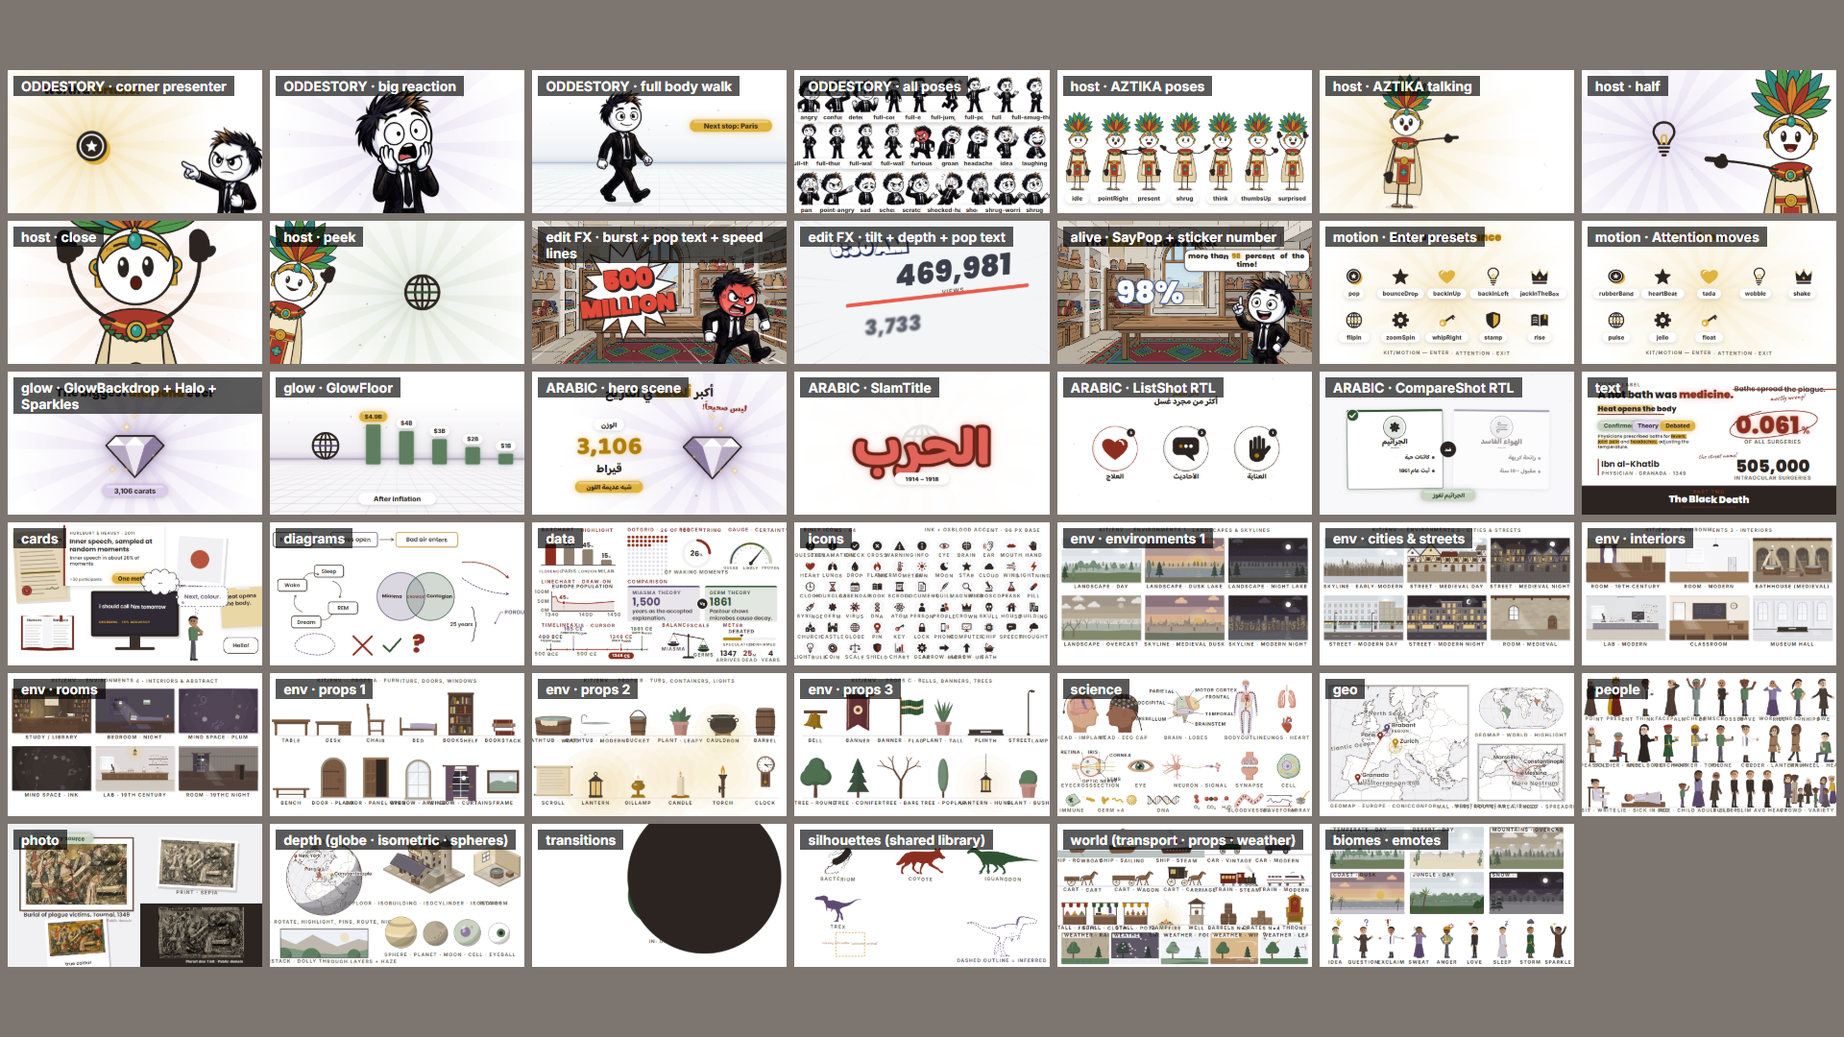
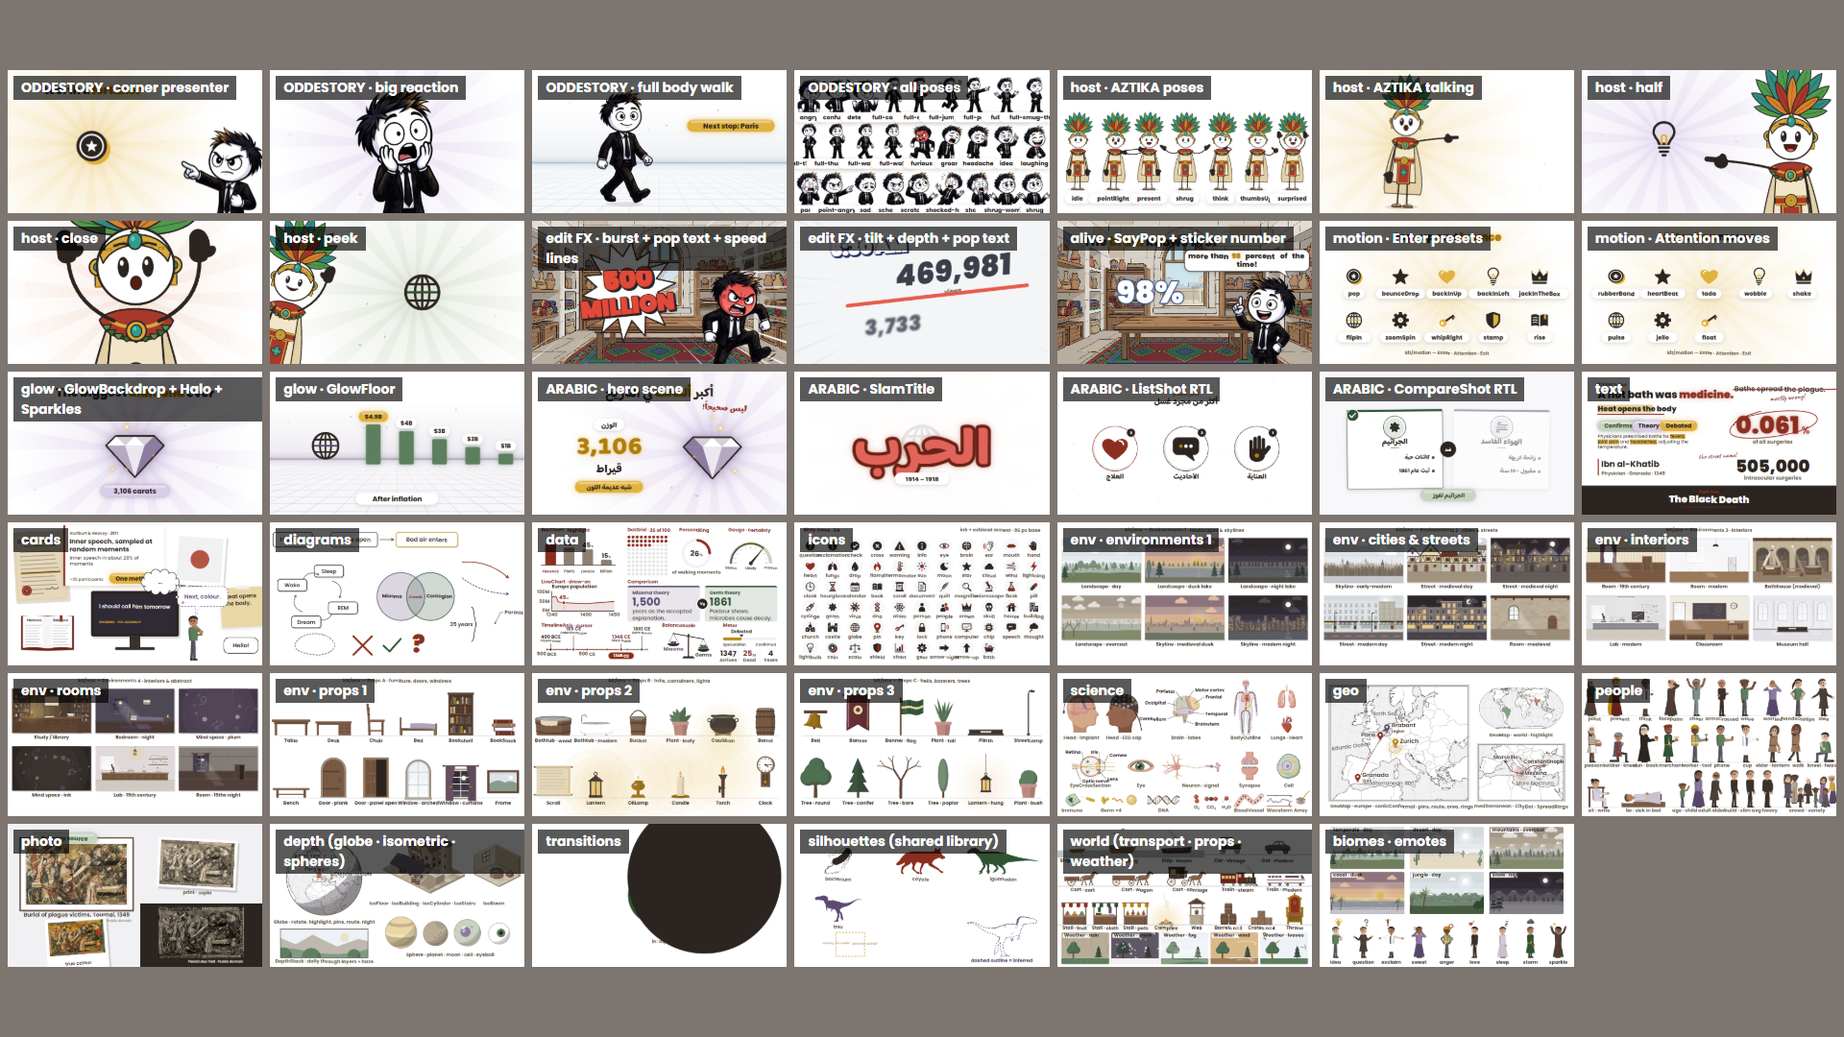
One clean text style: Poppins for labels/kickers too, normal case, normal letter spacing, no italics (old tracked caps + italics retired)

diff --git a/src/kit/templates.tsx b/src/kit/templates.tsx
@@ -548,7 +548,7 @@ export const QuoteShot: React.FC<
             <line x1={520} x2={520} y1={160} y2={990} stroke={C.oxTint} strokeWidth={3} opacity={0.8} />
             {docTitle && (
               <text x={960} y={236} textAnchor="middle" fontFamily={FONT_SANS} fontWeight={700} fontSize={30} letterSpacing={4} fill={C.inkMute}>
-                {docTitle.toUpperCase()}
+                {docTitle}
               </text>
             )}
             {[0, 1].map((i) => (
@@ -596,7 +596,7 @@ export const QuoteShot: React.FC<
             </text>
             {sub && (
               <text x={250} y={612} fontFamily={FONT_SANS} fontWeight={700} fontSize={30} letterSpacing={3} fill={P.mute} opacity={ramp(t, t0 + dur * 0.8, t0 + dur * 0.8 + 0.5)}>
-                {sub.toUpperCase()}
+                {sub}
               </text>
             )}
           </g>
@@ -687,7 +687,7 @@ export const EvidenceShot: React.FC<
           {mark.label && (
             <g opacity={ramp(t, mAt + 0.5, mAt + 0.9)}>
               <path d={`M${mx + (labelRight ? 1 : -1) * ((mark.rw * z * w) / 2 + 4)} ${my} L${labelRight ? fr + 30 : fl - 30} ${my}`} stroke={P.dark ? C.oxLight : C.oxblood} strokeWidth={4} pathLength={1} strokeDasharray="1 1" strokeDashoffset={1 - ease.inOut(ramp(t, mAt + 0.5, mAt + 1))} />
-              <Plate x={labelRight ? fr + 30 : fl - 30 - (textW(mark.label.toUpperCase(), 24, 'sansCaps') + 40)} y={my - 30} w={textW(mark.label.toUpperCase(), 24, 'sansCaps') + 40} h={60} p={ramp(t, mAt + 0.7, mAt + 1.1)} dark={P.dark} />
+              <Plate x={labelRight ? fr + 30 : fl - 30 - (textW(mark.label, 24, 'sansCaps') + 40)} y={my - 30} w={textW(mark.label, 24, 'sansCaps') + 40} h={60} p={ramp(t, mAt + 0.7, mAt + 1.1)} dark={P.dark} />
               <Kicker x={labelRight ? fr + 50 : fl - 50} y={my + 9} text={mark.label} anchor={labelRight ? 'start' : 'end'} p={ramp(t, mAt + 0.8, mAt + 1.2)} color={P.dark ? C.paperLight : C.oxblood} />
             </g>
           )}
@@ -696,7 +696,7 @@ export const EvidenceShot: React.FC<
       {tag && <Tag x={fl + 30} y={ft + 4} text={tag.text} kind={tag.kind ?? 'confirmed'} p={ramp(t, tag.at ?? t0 + 0.6, (tag.at ?? t0 + 0.6) + 0.6)} />}
       {nameTag && (
         <g>
-          <Plate x={fl - 50} y={fb - 96} w={Math.max(textW(nameTag.name, 46), nameTag.sub ? textW(nameTag.sub.toUpperCase(), 22, 'sansCaps') : 0) + 110} h={nameTag.sub ? 122 : 90} p={ramp(t, nameTag.at ?? t0 + 0.9, (nameTag.at ?? t0 + 0.9) + 0.5)} dark={P.dark} />
+          <Plate x={fl - 50} y={fb - 96} w={Math.max(textW(nameTag.name, 46), nameTag.sub ? textW(nameTag.sub, 22, 'sansCaps') : 0) + 110} h={nameTag.sub ? 122 : 90} p={ramp(t, nameTag.at ?? t0 + 0.9, (nameTag.at ?? t0 + 0.9) + 0.5)} dark={P.dark} />
           <NameTag x={fl - 20} y={fb - 40} name={nameTag.name} sub={nameTag.sub} p={ramp(t, (nameTag.at ?? t0 + 0.9) + 0.1, (nameTag.at ?? t0 + 0.9) + 0.7)} color={P.accent} dark={P.dark} />
         </g>
       )}
@@ -1045,7 +1045,7 @@ export const TimelineShot: React.FC<
             <rect x={xa} y={head ? 290 : 220} width={(xb - xa) * ease.inOut(ep)} height={ay - (head ? 290 : 220)} fill={mixHex(P.bg, c, P.dark ? 0.2 : 0.1)} />
             <rect x={xa + 2} y={ay + 96} width={Math.max(0, xb - xa - 4) * ease.inOut(ep)} height={56} rx={6} fill={mixHex(P.bg, c, P.dark ? 0.55 : 0.3)} />
             <text x={(xa + xb) / 2} y={ay + 135} textAnchor="middle" fontFamily={FONT_SANS} fontWeight={700} fontSize={32} letterSpacing={3} fill={P.fg} opacity={ramp(ep, 0.5, 1)}>
-              {er.label.toUpperCase()}
+              {er.label}
             </text>
           </g>
         );
@@ -1076,7 +1076,7 @@ export const TimelineShot: React.FC<
               <rect x={cx - lw / 2} y={ty - 128} width={lw} height={128} rx={10} fill={P.dark ? C.inkSoft : C.paperLight} />
               <rect x={cx - lw / 2} y={ty - 128} width={lw} height={8} rx={4} fill={c === P.fg ? P.accent : c} />
               <text x={cx} y={ty - 80} textAnchor="middle" fontFamily={FONT_SANS} fontWeight={800} fontSize={32} letterSpacing={3} fill={c === P.fg ? P.accent : c}>
-                {(e.yearLabel ?? fmt(e.year)).toUpperCase()}
+                {(e.yearLabel ?? fmt(e.year))}
               </text>
               <text x={cx} y={ty - 26} textAnchor="middle" fontFamily={FONT_SERIF} fontWeight={600} fontSize={44} fill={P.fg}>
                 {lbl}
@@ -1164,7 +1164,7 @@ export const MapShot: React.FC<
       {full ? (
         (kicker || title) && (
           <g>
-            <Plate x={130} y={110} w={Math.max(title ? textW(title, 56) : 0, kicker ? textW(kicker.toUpperCase(), 36, 'sansCaps') * 1.1 : 0) + 90} h={title ? 150 : 80} p={ramp(t, t0, t0 + 0.6)} dark={P.dark} />
+            <Plate x={130} y={110} w={Math.max(title ? textW(title, 56) : 0, kicker ? textW(kicker, 36, 'sansCaps') * 1.1 : 0) + 90} h={title ? 150 : 80} p={ramp(t, t0, t0 + 0.6)} dark={P.dark} />
             <Heading x={175} y={170} kicker={kicker} title={title} p={ramp(t, t0 + 0.1, t0 + 0.9)} P={P} size={56} />
           </g>
         )
@@ -1260,7 +1260,7 @@ export const PersonShot: React.FC<
     ) : (
       <Room era={era} t={t} seed={seed} night={night} windowX={sd === 'left' ? 1500 : 420} doorX={sd === 'left' ? 1150 : 760} door={false} />
     );
-  const tagW = Math.max(textW(name, 64), sub ? textW(sub.toUpperCase(), 36, 'sansCaps') * 1.17 : 0) + 110;
+  const tagW = Math.max(textW(name, 64), sub ? textW(sub, 36, 'sansCaps') * 1.17 : 0) + 110;
   const tagX = sd === 'left' ? Math.min(1060, 1824 - tagW) : Math.max(96, 860 - tagW);
   const tagY = env === 'study' ? 420 : 560;
   return (
@@ -1352,7 +1352,7 @@ export const ProcessShot: React.FC<
               </text>
               {s.sub && (
                 <text x={lp.x} y={ly + 42} textAnchor={anchor} fontFamily={FONT_SANS} fontWeight={700} fontSize={30} letterSpacing={3} fill={P.mute} opacity={ramp(p, 0.6, 1)}>
-                  {s.sub.toUpperCase()}
+                  {s.sub}
                 </text>
               )}
             </g>

diff --git a/src/kit/text.tsx b/src/kit/text.tsx
@@ -11,7 +11,7 @@ import {isAr} from './lang';
 /** Approximate rendered width (px) of a single line — good enough for layout boxes. */
 export const textW = (text: string, size: number, font: 'serif' | 'sans' | 'sansCaps' = 'serif', weight = 600) => {
   // Arabic (Baloo Bhaijaan 2, no tracking, no caps): one width for every role
-  const k = isAr() ? 0.5 : font === 'serif' ? 0.64 : font === 'sansCaps' ? 0.7 : 0.56; // serif = Poppins Black (wide)
+  const k = isAr() ? 0.5 : font === 'serif' ? 0.64 : font === 'sansCaps' ? 0.64 : 0.6; // all Poppins now (normal case, no tracking) // serif = Poppins Black (wide)
   return text.length * size * k * (weight >= 700 ? 1.04 : 1);
 };
 
@@ -176,7 +176,7 @@ export const Kicker: React.FC<{x: number; y: number; text: string; p?: number; s
   size = Math.max(size, TYPE.small); // phone-readable floor
   return (
     <text x={x} y={y + (1 - k) * 10} textAnchor={anchor} fontFamily={FONT_SANS} fontWeight={weight} fontSize={size} letterSpacing={size * 0.16} fill={color} opacity={k}>
-      {text.toUpperCase()}
+      {text}
     </text>
   );
 };
@@ -245,7 +245,7 @@ export const Tag: React.FC<{
   const onCol = kind === 'caution' ? C.ink : C.paperLight; // dark text on mustard for contrast
   const cap = look === 'caption';
   const size = Math.max(size0, cap ? TYPE.read / 1.12 : TYPE.label); // phone-readable floor (caption text renders at size × 1.12)
-  const label = cap ? text : text.toUpperCase();
+  const label = cap ? text : text;
   const fs = cap ? size * 1.12 : size;
   const w = cap ? size * 0.22 + size * 0.55 + textW(label, fs, 'serif', 600) * 1.06 + size * 0.75 : textW(label, size, 'sansCaps', 700) + size * (dot ? 2.3 : 1.6);
   const h = size * 1.9;
@@ -295,7 +295,7 @@ export const Stamp: React.FC<{x: number; y: number; text: string; p: number; col
   if (p <= 0) return null;
   cueSfx('stamp', `${text}@${Math.round(x)},${Math.round(y)}`, true, x);
   const s = 1.35 - 0.35 * ease.outBack(Math.min(1, p));
-  const label = text.toUpperCase();
+  const label = text;
   const w = textW(label, size, 'sansCaps', 800) + size * 1.2;
   const h = size * 1.7;
   return (
@@ -384,7 +384,7 @@ export const Stat: React.FC<{
       </text>
       {label && (
         <text x={x} y={y + size * 0.42} textAnchor={anchor} fontFamily={FONT_SANS} fontWeight={700} fontSize={Math.max(TYPE.label, size * 0.2)} letterSpacing={size * 0.02} fill={labelColor} opacity={ramp(p, 0.4, 1)}>
-          {label.toUpperCase()}
+          {label}
         </text>
       )}
     </g>
@@ -480,7 +480,7 @@ export const NameTag: React.FC<{x: number; y: number; name: string; sub?: string
   const k = ease.out(clamp01(p));
   const nameSize = 64;
   const subSize = TYPE.small;
-  const w = Math.max(textW(name, nameSize, 'serif'), sub ? textW(sub.toUpperCase(), subSize, 'sansCaps') : 0) + 60;
+  const w = Math.max(textW(name, nameSize, 'serif'), sub ? textW(sub, subSize, 'sansCaps') : 0) + 60;
   const ox = anchor === 'left' ? 0 : -w;
   const fg = dark ? C.paperLight : C.ink;
   return (
@@ -491,7 +491,7 @@ export const NameTag: React.FC<{x: number; y: number; name: string; sub?: string
       </text>
       {sub && (
         <text x={28} y={subSize * 1.7} fontFamily={FONT_SANS} fontWeight={700} fontSize={subSize} letterSpacing={subSize * 0.12} fill={dark ? C.paperShade : C.inkMute} opacity={ramp(p, 0.3, 1)}>
-          {sub.toUpperCase()}
+          {sub}
         </text>
       )}
     </g>

diff --git a/src/kit/archival.tsx b/src/kit/archival.tsx
@@ -133,7 +133,7 @@ export const LowerThird: React.FC<{text: string; kicker?: string; p: number; x?:
   cueSfx('swoosh', `lt@${text}`, true, x);
   const size = Math.max(size0, TYPE.read); // phone-readable floor; y = 950 keeps it above YouTube's player controls
   const k = ease.outQuint(clamp01(p));
-  const w = Math.max(textW(text, size, 'serif'), kicker ? textW(kicker.toUpperCase(), TYPE.small, 'sansCaps', 700) * 1.1 : 0) + 84;
+  const w = Math.max(textW(text, size, 'serif'), kicker ? textW(kicker, TYPE.small, 'sansCaps', 700) * 1.1 : 0) + 84;
   const h = kicker ? size * 1.3 + 84 : size * 1.3 + 34;
   const top = y - h;
   return (
@@ -143,7 +143,7 @@ export const LowerThird: React.FC<{text: string; kicker?: string; p: number; x?:
       <g opacity={ramp(p, 0.4, 1)}>
         {kicker && (
           <text x={x + 36} y={top + 58} fontFamily={FONT_SANS} fontWeight={700} fontSize={TYPE.small} letterSpacing={5} fill={C.oxTint}>
-            {kicker.toUpperCase()}
+            {kicker}
           </text>
         )}
         <text x={x + 36} y={y - 24} fontFamily={FONT_SERIF} fontStyle="italic" fontWeight={600} fontSize={size} fill={C.paperLight}>
@@ -170,7 +170,7 @@ const LabelPlate: React.FC<{x: number; y: number; text: string; note?: string; k
   cueSfx('popup', `lp@${text}@${Math.round(x)},${Math.round(y)}`, true, x);
   const size = Math.max(size0, TYPE.small); // phone-readable floor (kicker plates use TYPE.small, labels default TYPE.label)
   const k = ease.outQuint(clamp01(p));
-  const label = text.toUpperCase();
+  const label = text;
   const w = Math.max(textW(label, size, 'sansCaps', 700) * 1.08, note ? textW(note, size * 0.95, 'serif') : 0) + 64;
   const h = note ? size * 3.1 : size * 2.1;
   // stay inside the title-safe frame and above YouTube's player controls (y ≤ 970)

diff --git a/src/kit/data.tsx b/src/kit/data.tsx
@@ -48,12 +48,12 @@ const Lbl: React.FC<{x: number; y: number; text: string; size?: number; color?: 
 }) => {
   // phone-readable floor; `fit` (max width) may shrink a crowded label down to 28 px — if that's not enough, make the chart bigger
   const want = Math.max(size0, TYPE.small);
-  const longest = Math.max(...text.toUpperCase().split('\n').map((l) => l.length));
+  const longest = Math.max(...text.split('\n').map((l) => l.length));
   const size = fit ? Math.max(28, Math.min(want, fit / (longest * 0.82))) : want;
   return o <= 0 ? null : (
     <text x={x} y={y} textAnchor={anchor} fontFamily={FONT_SANS} fontWeight={weight} fontSize={size} letterSpacing={size * 0.12} fill={color} opacity={o}>
       {text
-        .toUpperCase()
+        
         .split('\n')
         .map((ln, i) => (
           <tspan key={i} x={x} dy={i ? size * 1.25 : 0}>
@@ -430,7 +430,7 @@ export const TimelineAxis: React.FC<{
               <line x1={x} x2={cx} y1={y} y2={y} stroke={cursorColor} strokeWidth={7} strokeLinecap="round" />
               <rect x={cx - pw / 2} y={y + 22} width={pw} height={50} rx={25} fill={cursorColor} />
               <text x={cx} y={y + 58} textAnchor="middle" fontFamily={FONT_SANS} fontWeight={700} fontSize={30} letterSpacing={2} fill={C.paperLight}>
-                {txt.toUpperCase()}
+                {txt}
               </text>
               <circle cx={cx} cy={y} r={12} fill={cursorColor} stroke={C.paperLight} strokeWidth={4} />
             </g>

diff --git a/src/kit/cards.tsx b/src/kit/cards.tsx
@@ -89,8 +89,8 @@ export const DocumentPage: React.FC<{
         </text>
       )}
       {subtitle && (
-        <text x={0} y={top + 96} textAnchor="middle" fontFamily={FONT_SANS} fontWeight={700} fontSize={Math.min(26, (26 * (w - 100)) / textW(subtitle.toUpperCase(), 26, 'sansCaps', 700))} letterSpacing={3} fill={C.inkMute}>
-          {subtitle.toUpperCase()}
+        <text x={0} y={top + 96} textAnchor="middle" fontFamily={FONT_SANS} fontWeight={700} fontSize={Math.min(26, (26 * (w - 100)) / textW(subtitle, 26, 'sansCaps', 700))} letterSpacing={3} fill={C.inkMute}>
+          {subtitle}
         </text>
       )}
       {title && <line x1={-120} x2={120} y1={top + (subtitle ? 112 : 78)} y2={top + (subtitle ? 112 : 78)} stroke={edge} strokeWidth={3} />}
@@ -182,7 +182,7 @@ export const StudyCard: React.FC<{
     <Card x={x} y={y} w={w} h={h} p={p} rot={rot}>
       <rect x={0} y={0} width={14} height={h} fill={accent} />
       <text x={48} y={72} fontFamily={FONT_SANS} fontWeight={700} fontSize={30} letterSpacing={3.5} fill={C.inkMute}>
-        {[who, year].filter(Boolean).join(' · ').toUpperCase()}
+        {[who, year].filter(Boolean).join(' · ')}
       </text>
       <Para x={46} y={94} w={w - 90} h={130} text={title} size={TYPE.read} weight={700} p={ramp(p, 0.2, 0.8)} />
       {finding && <Para x={48} y={226} w={w - 90} h={120} text={finding} size={TYPE.small} weight={500} color={C.inkSoft} p={ramp(p, 0.4, 1)} />}

diff --git a/src/kit/diagrams.tsx b/src/kit/diagrams.tsx
@@ -192,7 +192,7 @@ export const Venn: React.FC<{x: number; y: number; r: number; labels: string[]; 
       })}
       {overlap && (
         <text x={x} y={y + 12} textAnchor="middle" fontFamily={FONT_SANS} fontWeight={800} fontSize={Math.max(26, Math.min(36, (r * 0.62) / (overlap.length * 0.78)))} letterSpacing={2.5} fill={C.oxblood} opacity={ramp(p, 0.7, 1)}>
-          {overlap.toUpperCase()}
+          {overlap}
         </text>
       )}
     </g>
@@ -236,7 +236,7 @@ export const Callout: React.FC<{target: Pt; label: Pt; text: string; p: number; 
       <circle cx={target.x} cy={target.y} r={8 * ease.outBack(clamp01(p * 3))} fill={col} stroke={C.paperLight} strokeWidth={3} />
       <path d={d} stroke={col} strokeWidth={3.5} fill="none" pathLength={1} strokeDasharray="1 1" strokeDashoffset={1 - k} />
       <text x={label.x + (an === 'start' ? 10 : -10)} y={label.y + size * 0.35} textAnchor={an} fontFamily={FONT_SANS} fontWeight={700} fontSize={size} letterSpacing={size * 0.05} fill={col} opacity={ramp(p, 0.5, 1)}>
-        {text.toUpperCase()}
+        {text}
       </text>
     </g>
   );

diff --git a/src/kit/geo.tsx b/src/kit/geo.tsx
@@ -367,12 +367,12 @@ export const MapLabel: React.FC<{x: number; y: number; text: string; kind?: 'sea
       )}
       {kind === 'region' && (
         <text {...common} fontFamily={FONT_SANS} fontWeight={700} fontSize={sz} letterSpacing={sz * 0.22} fill={color ?? C.inkMute} {...halo}>
-          {text.toUpperCase()}
+          {text}
         </text>
       )}
       {kind === 'country' && (
         <text {...common} fontFamily={FONT_SERIF} fontWeight={600} fontSize={sz} letterSpacing={sz * 0.16} fill={color ?? C.inkLift} {...halo}>
-          {text.toUpperCase()}
+          {text}
         </text>
       )}
     </g>
@@ -416,7 +416,7 @@ export const MapPin: React.FC<{x: number; y: number; p?: number; label?: string;
           </text>
           {sub && (
             <text x={tx} y={ty + 40} textAnchor={anchor} fontFamily={FONT_SANS} fontWeight={700} fontSize={30} letterSpacing={3} fill={C.inkMute} {...halo} strokeWidth={6}>
-              {sub.toUpperCase()}
+              {sub}
             </text>
           )}
         </g>

diff --git a/src/kit/fonts.ts b/src/kit/fonts.ts
@@ -13,6 +13,7 @@ import '@fontsource/inter/700.css';
 import '@fontsource/inter/800.css';
 import '@fontsource/inter/900.css';
 // English headline face (owner 2026-10-21): Poppins (Black 900 for headlines/pop words)
+import '@fontsource/poppins/latin-500.css';
 import '@fontsource/poppins/latin-600.css';
 import '@fontsource/poppins/latin-700.css';
 import '@fontsource/poppins/latin-800.css';
@@ -28,7 +29,7 @@ Promise.all(
     'italic 400 40px Fraunces', 'italic 600 40px Fraunces',
     '400 20px Inter', '500 20px Inter', '600 20px Inter', '700 20px Inter', '800 20px Inter',
     '500 40px Caveat', '700 40px Caveat', '900 20px Inter',
-    '600 40px Poppins', '700 40px Poppins', '800 40px Poppins', '900 40px Poppins',
+    '500 40px Poppins', '600 40px Poppins', '700 40px Poppins', '800 40px Poppins', '900 40px Poppins',
   ].map((f) => document.fonts.load(f))
 )
   .then(() => continueRender(handle))

diff --git a/src/kit/theme.ts b/src/kit/theme.ts
@@ -85,7 +85,8 @@ export type Sem = keyof typeof SEM;
 // Headline face (owner 2026-10-21, picked from a test page): Poppins Black — geometric, bold, clean (Arabic videos
 // swap to Baloo Bhaijaan 2 automatically).
 export const FONT_SERIF = '"Poppins", "Inter", "Segoe UI", sans-serif'; // titles, numbers, quotes, pills (name kept for compatibility)
-export const FONT_SANS = '"Inter", "Segoe UI", Arial, sans-serif'; // labels, tags, UI (Inter up to Black 900)
+// Labels too (owner 2026-10-21: "remove the old text styles"): Poppins everywhere, normal case, normal letter spacing.
+export const FONT_SANS = '"Poppins", "Inter", "Segoe UI", Arial, sans-serif'; // labels, tags, kickers, UI
 export const FONT_HAND = '"Caveat", "Segoe Print", cursive'; // RARE accent: handwritten notes on images/documents only (≥ 34 px)
 
 export const W = 1920;

diff --git a/src/kit/stage.tsx b/src/kit/stage.tsx
@@ -41,7 +41,7 @@ const AR_CSS = `
 `;
 
 /** English: headline face is upright only (no italic loaded — a fake slant looks cheap). */
-const EN_CSS = `text[font-family*="Poppins"], text[font-family*="Poppins"] tspan, [style*="Poppins"] { font-style: normal !important; }`;
+const EN_CSS = `text, tspan, foreignObject * { font-style: normal !important; letter-spacing: normal !important; } /* owner 2026-10-21: no italics, no wide tracking */`;
 
 /** Shared elegant-glow filters (GLOW in kit/theme). Two stacked soft halos: a tight one + a wide faint one. */
 const halo = (id: string, color: string, a: number, b: number) => (

diff --git a/src/kit/science.tsx b/src/kit/science.tsx
@@ -140,7 +140,7 @@ const Leader: React.FC<{ax: number; ay: number; lx: number; ly: number; text: st
       <path d={`M${ax} ${ay} L${lerp(ax, lx, k)} ${lerp(ay, ly, k)}`} stroke={color} strokeWidth={3} strokeLinecap="round" fill="none" />
       <circle cx={ax} cy={ay} r={5.5} fill={dot} stroke={C.paperLight} strokeWidth={2.5} />
       <text x={lx + (right ? 10 : -10)} y={ly + 12} textAnchor={right ? 'start' : 'end'} fontFamily={FONT_SANS} fontWeight={700} fontSize={34} letterSpacing={3.5} fill={C.ink}>
-        {text.toUpperCase()}
+        {text}
       </text>
     </g>
   );

diff --git a/docs/KIT.md b/docs/KIT.md
@@ -80,7 +80,7 @@ Showcase: Gallery pages "host" (all poses) and "host2" (talking).
 ## Text (`kit/text`) — p = reveal progress 0→1
 - `Headline {x,y,text,p,size=72,color,anchor='middle',italic,weight=600,mode:'rise'|'words'|'type'|'mask',accent?:{word:colour},font:'serif'|'sans',out?}`
   e.g. `<Headline x={960} y={220} text="A hot bath was medicine." mode="words" accent={{medicine: C.oxblood}} p={ramp(t,T.a,T.a+1)}/>`
-- `Kicker {x,y,text,p=1,size=36,color=inkMute,anchor}` tracked caps label (never below 36 — phone floor).
+- `Kicker {x,y,text,p=1,size=36,color=inkMute,anchor}` small heading in normal case, Poppins, normal spacing (never below 36 — phone floor).
 - `Para {x,y,w,h=600,text,p,size=48,color,align,font,weight,italic,lineHeight}` wrapped paragraph (keep short).
 - `GlowPill {x,y,text,kind:Sem,p,size=44,to?,anchor}` THE channel label: rounded pill, heavy text, soft glow in its colour
   (ink = white pill, caution = gold, theory = lavender, confirmed = green, signal = oxblood). `Tag` defaults to it (look='pill').
@@ -289,7 +289,7 @@ type Cut = {rx, ry (TOP-LEFT), rw, rh, shape?: 'rect'|'ellipse'} | {points: [rx,
 # data — `src/kit/data.tsx`
 
 Data visualisation for **exact** statistics: every number shown comes from an explicit prop, so the screen
-says exactly what the narration says. Numbers in Fraunces 700, labels in Inter caps. All take `p` 0→1
+says exactly what the narration says. Numbers and labels in Poppins (normal case, no wide letter spacing). All take `p` 0→1
 (build-on; settled at 1). Count-ups land exactly on the given string (uses `countUp`). Gallery: `{"page":"data"}`.
 
 Helpers: `fmtNum(12500) → "12,500"`, `fmtYear(-400) → "400 BCE"` (`fmtYear(y, true)` adds " CE").
@@ -405,7 +405,7 @@ side colour) or any SVG node drawn at the pan rim centre. Labels stay true-size 
 ```
 
 ## CounterRow
-Row of exact figures counting up in turn, separated by thin rules, caps labels below.
+Row of exact figures counting up in turn, separated by thin rules, labels below.
 Origin = left end of the row at the numbers' baseline; total width w.
 ```ts
 <CounterRow x y w items: {value; label; color?; count?}[]; p; size?=88 />
@@ -757,7 +757,7 @@ Outbreak / spread marker: filled core + rings expanding on a loop driven by `t`.
 
 ## AreaMark
 Region without a modern border (e.g. Brabant, "the Low Countries"): flat tint + dashed rim drawing on,
-optional sans-caps label. Origin = centre.
+optional label. Origin = centre.
 ```ts
 <AreaMark x y rx ry?=rx*0.7 rot?=0 p?=1 color?=C.theory label? labelDy? />
 ```
